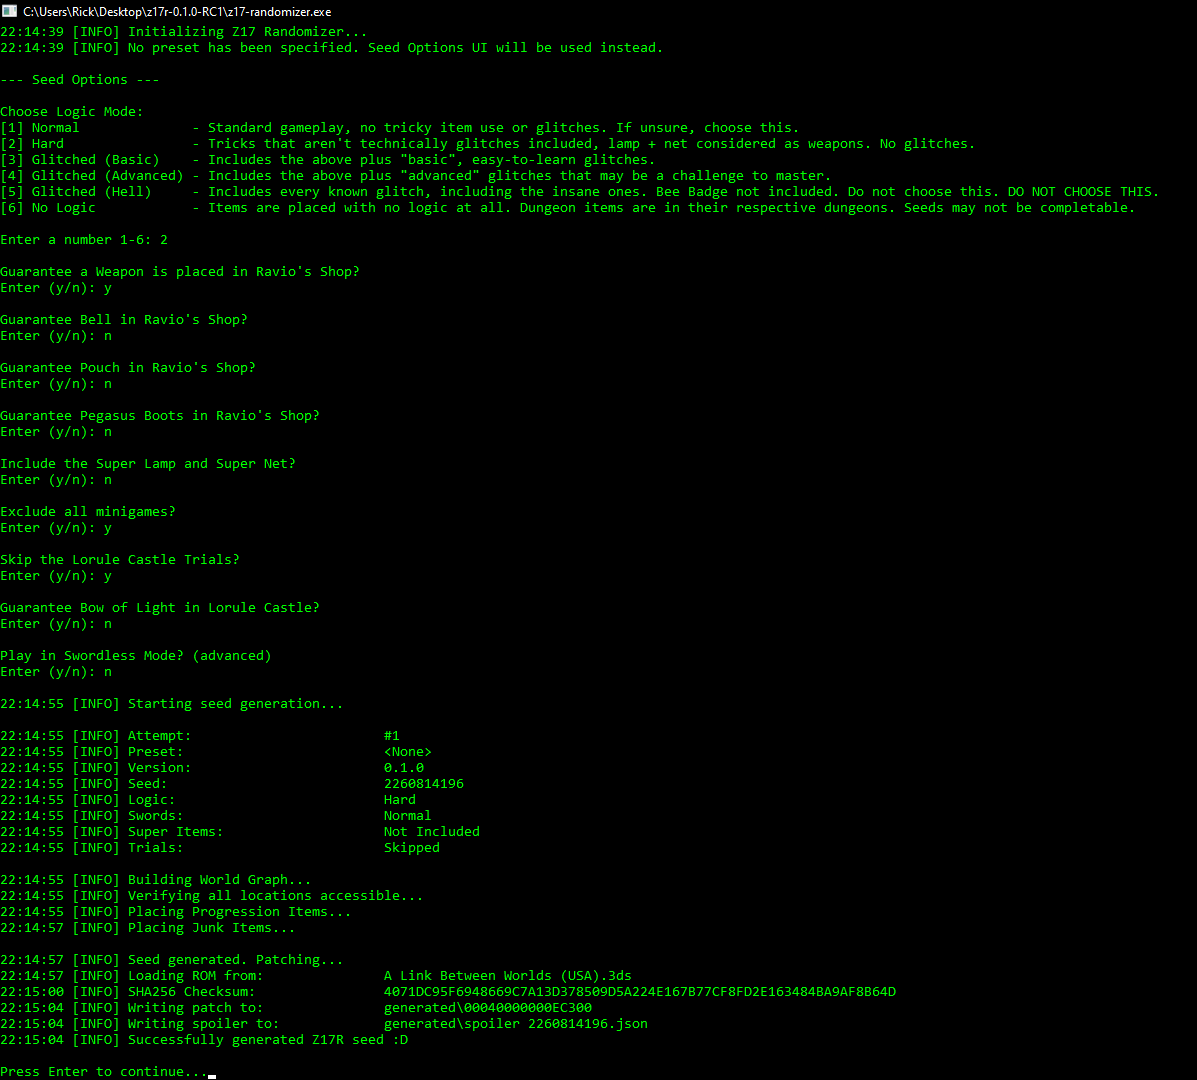
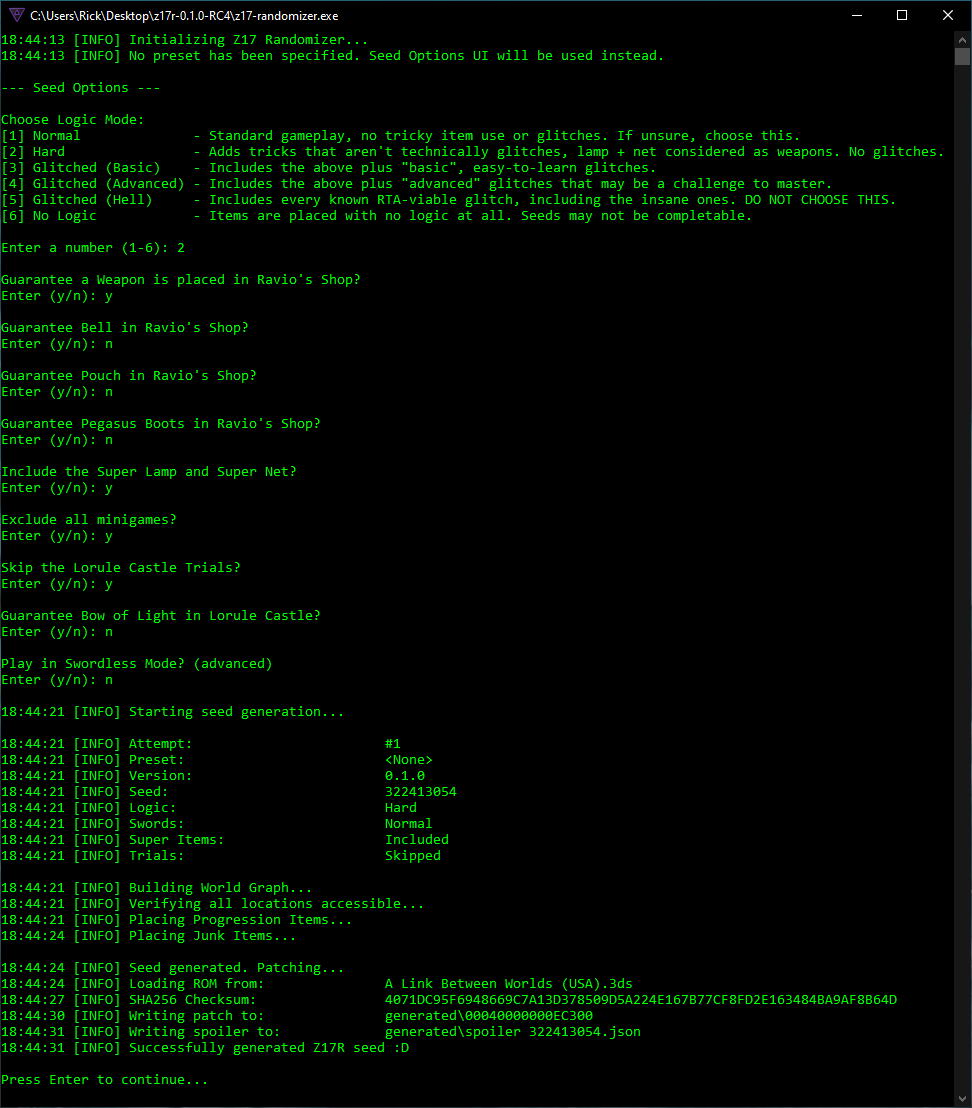
fix reverse DP issue, moved some tricks to advanced, readme updates, metadata updates

diff --git a/randomizer/src/world.rs b/randomizer/src/world.rs
@@ -1440,8 +1440,8 @@ fn lorule() -> HashMap<Location, LocationNode> {
             path(MiseryMireBridge,
                  None,
                  None,
-                 Some(|p| p.has_ice_rod() && p.has_tornado_rod()),
                  None,
+                 Some(|p| p.has_ice_rod() && p.has_tornado_rod()),
                  None,
             ),
             path(MiseryMireLedge,
@@ -1459,8 +1459,8 @@ fn lorule() -> HashMap<Location, LocationNode> {
             path(MiseryMireOoB,
                  None,
                  None,
-                 Some(|p| p.has_fire_rod() || p.has_nice_bombs()),
                  None,
+                 Some(|p| p.has_fire_rod() || p.has_nice_bombs()),
                  Some(|p| (p.has_hookshot() || p.has_boomerang()) && p.has_tornado_rod()), // portal clip
             ),
         ])),
@@ -1472,8 +1472,8 @@ fn lorule() -> HashMap<Location, LocationNode> {
             path(MiseryMireRewardBasket,
                  None,
                  None,
-                 Some(|p| p.has_boots()),
                  None,
+                 Some(|p| p.has_boots()),
                  None),
         ])),
         (SandRodDungeon, location("Misery Mire Treasure Dungeon", vec![
@@ -1773,7 +1773,7 @@ fn lorule() -> HashMap<Location, LocationNode> {
             path_free(LoruleDeathEastLedgeLower),
             path(IceCaveCenter,
                  Some(|p| p.can_merge()),
-                 Some(|p| p.has_tornado_rod()), // jump over merge block
+                 None,
                  None,
                  None,
                  None,
@@ -1951,8 +1951,8 @@ fn eastern_palace() -> HashMap<Location, LocationNode> {
             check(LocationInfo::new(regions::dungeons::eastern::floor2::SUBREGION, "[EP] (2F) Big Chest"),
                   Some(|p| p.has_eastern_keys(2)),
                   None,
-                  Some(|p| p.has_tornado_rod()),
                   None,
+                  Some(|p| p.has_tornado_rod()),
                   None,
             ),
         ], vec![
@@ -1960,8 +1960,8 @@ fn eastern_palace() -> HashMap<Location, LocationNode> {
             path(EasternPalaceBoss,
                  Some(|p| p.has_eastern_big_key() && p.has_eastern_keys(2) && p.can_attack() && p.can_hit_far_switch()),
                  Some(|p| p.has_eastern_big_key() && (p.has_bombs() || p.has_ice_rod())),
-                 Some(|p| p.has_tornado_rod()),
                  None,
+                 Some(|p| p.has_tornado_rod()),
                  None,
             ),
         ])),
@@ -2978,7 +2978,7 @@ fn desert_palace() -> HashMap<Location, LocationNode> {
             ),
         ], vec![
             path_free(DesertPalace2F),
-            path(DesertZaganagaLedge,
+            path(DesertPalaceExit3F,
                  Some(|p| p.has_desert_keys(5) && p.has_desert_big_key()),
                  None,
                  Some(|p| p.has_tornado_rod() && p.has_desert_big_key()),
@@ -2986,8 +2986,18 @@ fn desert_palace() -> HashMap<Location, LocationNode> {
                  None,
             ),
         ])),
+        (DesertPalaceExit3F, location("Desert Palace Exit 3F", vec![], vec![
+            path(DesertPalace3F,
+                 Some(|p| p.has_sand_rod()),
+                 None,
+                 None,
+                 None,
+                 None,
+            ),
+            path_free(DesertZaganagaLedge),
+        ])),
         (DesertZaganagaLedge, location("Desert Zaganaga Ledge", vec![], vec![
-            path_free(DesertPalace3F),
+            path_free(DesertPalaceExit3F),
             portal(ZaganagasArena),
         ])),
         (ZaganagasArena, location("Zaganaga's Arena", vec![], vec![

diff --git a/randomizer/src/progress.rs b/randomizer/src/progress.rs
@@ -141,7 +141,7 @@ impl Progress {
                     || ((self.settings.logic.mode == LogicMode::GlitchBasic ||
                     self.settings.logic.mode == LogicMode::GlitchAdvanced ||
                     self.settings.logic.mode == LogicMode::GlitchHell)
-                    && (self.has_hookshot() || self.has_boomerang() && self.can_escape())) {
+                    && (self.has_hookshot() || (self.has_boomerang() && self.can_escape()))) {
                     maiamai += 1;
                 }
             }

diff --git a/cli/src/main.rs b/cli/src/main.rs
@@ -34,7 +34,7 @@ fn prompt_logic_mode() -> LogicMode
     print!("[6] No Logic            - Items are placed with no logic at all. Seeds may not be completable.\n");
 
     loop {
-        print!("\nEnter a number 1-6: ");
+        print!("\nEnter a number (1-6): ");
 
         stdout().flush().unwrap();
         let mut input = String::new();

diff --git a/randomizer/src/location.rs b/randomizer/src/location.rs
@@ -210,6 +210,7 @@ pub enum Location {
     DesertPalace1F,
     DesertPalace2F,
     DesertPalace3F,
+    DesertPalaceExit3F,
     ZaganagasArena,
     MiseryMireRewardBasket,
 

diff --git a/README.md b/README.md
@@ -33,6 +33,8 @@ A randomizer for The Legend of Zelda: A Link Between Worlds, built off the [orig
     - <u>Glitched (Hell)</u>: Includes every known RTA-viable glitch, including the insane ones. DO NOT CHOOSE THIS.
     - <u>No Logic</u>: Items are placed with no logic at all. Seeds may not be completable.
 
+  - A full breakdown of the new logic modes is located further down this page.
+
 
 - Sanctuary, Rewired
   - The doors to the Sanctuary church are now closed at game start. They will open upon completing the Sanctuary dungeon, specifically when the left-side switch is pulled at the dungeon's end.
@@ -71,6 +73,9 @@ A randomizer for The Legend of Zelda: A Link Between Worlds, built off the [orig
 
 
 - Letter in a Bottle pickup text has been removed
+
+
+- Great Rupee Fairy will now logically guarantee (at least) 3000 Rupees are available between placed Purples, Silvers, and Golds.
 
 
 - The randomizer will no longer generate a `Standard.toml` preset that overwrites itself. Instead, an `Example.toml` preset is provided to demonstrate the correct format, and you may modify or delete it ~~at your own peril.~~
@@ -181,7 +186,9 @@ A randomizer for The Legend of Zelda: A Link Between Worlds, built off the [orig
 
 ## Setup
 
-Download: [Latest Stable Release (v0.1.0)](https://github.com/rickfay/z17-randomizer/releases/download/v0.1.0/z17r-0.1.0.zip)
+- Download: [Latest \[BETA\] Release (v0.1.0)](https://github.com/rickfay/z17-randomizer/releases/download/v0.1.0/z17r-0.1.0.zip)
+
+- Download: [Latest \[STABLE\] Release (v0.0.4)](https://github.com/rickfay/z17-randomizer/releases/download/v0.0.4/z17r-0.0.4.zip)
 
 1. Unzip the download to your directory of choice.
 2. Move your A Link Between Worlds ROM into the same folder. Name it: `A Link Between Worlds (USA).3ds`
@@ -257,72 +264,132 @@ For Citra (emulator):
   - The Hyrule Castle Barrier will be torn down from game start, providing access to its checks and the Inside Hyrule Castle dungeon.
   - You will need the [Net to play Tennis with Yuganon](https://www.twitch.tv/videos/1265170513). Good luck finding it!
 
-## Glitched Logic Breakdown
+## Logic Breakdown
 
-The following tricks may potentially be required in a Glitched Logic seed:
+### Normal Logic
 
-- Lamp, Net, and Pegasus Boots are considered damage sources
-- Rosso Cave with Boomerang or Hookshot (not TRod + Shield)
-- Blacksmith Cave with Fire Rod or Nice Bombs
-- Reach Death Mountain with Power Glove Skip
-- Eastern Ruins Pegs with Boomerang or Hookshot or Tornado Rod (no Sand Rod)
-- Flipperless Message in a Bottle with Fire Rod or Nice Bombs
-- Access HoG with Fake Flippers or Ice Rod + Hookshot
-- Lost Woods Chest with Boomerang or Hookshot and a means of escape (FRod, Bombs, or Bell. No Crow)
-- Reverse Sanctuary (door is open after opening Gravestone, just need damage source to defeat Poes)
-- Flippers Treasure Dungeon tricks. Need either Titan's Mitt or Ice Rod to enter. Then either just Hookshot + Flippers OR simply the Nice Bombs. Nice Ice Rod and Great Spin not considered.
-- Zora's Waterfall Cave with the Crow Boost (FRod not needed)
-- Pegasus Boots Dungeon with just Master Sword, Bombs, or Boomerang (Nice Bow and Nice Ice Rod not considered)
-- Access Turtle Rock with Fake Flippers
-- Misery Mire HP without Sand Rod. With just Bombs (regular works with Vulture boosting) or FRod + Boots
-- Eastern Palace
-  - Left entrance chest with a thrown Pot
-  - 4 Switches Room with thrown Pots
-  - Bombs or Ice Rod to activate switch opening path to Boss Door early
-  - TRod Armos Boost to get to Boss Key or Boss room without the appropriate key
-- House of Gales
-  - 2F Fire Ring Key using HoG Skip Skip to do 2F backwards if key missing (incredibly specific, unlikely)
-  - Skip Skip Skip to reach 3F without keys
-- Tower of Hera
-  - Bomb Rods can be used to climb the tower without any keys
-- Swamp Palace
-  - Early access to 1F SW/SE rooms with Ice Rod to raise water level
-  - Miniboss Skips with Ice Rod/Tornado Rod or Boots
-  - Early Big Chest with Ice Rod or Boots
-  - Big Key Skip with Ice Rod and Tornado Rod
-- Thieves' Hideout
-  - Flipperless Thieves using TRod + a way to hit the switch (IRod or Bombs, no sword beams)
-    - Softlock chest behind wall NOT in logic unless you can also get Bombs or Fire Rod (but really, bring a Scoot Fruit)
-    - Big Key chest accessible, Boots made available
-- Ice Ruins
-  - All dungeon checks accessible without keys if you have Boots. The ones behind B1 locked doors also require Tornado Rod.
-- Desert Palace
-  - Reverse DP means keys can show up anywhere in the dungeon if you have Fire Rod or Nice Bombs
-- Turtle Rock
-  - Big Key Skip using a Bomb Rod
-- Lorule Castle
-  - Lamp Trial doesn't need the Lamp
+This is the standard logic mode and is recommended for new and casual players.
 
-  
-Mergeless Tricks:
-- Behind Blacksmith with Fire Rod or Nice Bombs
-- Death Mountain climb
-- DM Fairy Cave with Fire Rod or Nice Bombs
-- Bouldering Guy with TRod + Boots
-- Access Eastern Ruins with just Power Glove
-- Eastern Ruins Merge Chest with TRod, FRod, or Nice Bombs
-- Lost Woods Alcove with Boomerang or Hookshot and a means of escape (FRod, Bombs, or Bell. No Crow)
-- House of Gales TRod onto moving block in 1F East Room (if key logic allows access)
-- Mergeless Hera with Bombs and Sword to bypass lobby. TRod needed for floors higher than 3F
+- Includes:
+  - Standard gameplay
+  - No glitches
+  - No obscure tricks
 
+### Hard Logic
 
-Fake Flippers requires Pegasus Boots and either Fire Rod or Nice Bombs
+This mode is recommended for players who have played the game before and are familiar with its mechanics. This is still a glitch-free mode, but the logic may require players to perform actions or use items in obscure, non-obvious ways to reach checks.
 
+- Includes:
+  - Using the Lamp or Net as weapons (they deal 1/2 the damage of the Forgotten Sword)
+  - Completing the Boots Dungeon with either Bombs, Boomerang, or Sword Beams
+  - Entering Eastern Ruins with Power Glove
+  - Entering the Vacant House rear with the Bomb Flower
+  - Hyrule Hotfoot with Merge + Bell
+  - Jumping into the Kakariko Well with a Cucco
+  - Reaching the Misery Mire Ledge with Stamina Scroll + Bombs
+  - Southern Ruins Treasure Dungeon
+    - Flippers, Hookshot, and either Bombs or Master Sword to hit the Boomerang switch
+  - Eastern Palace:
+    - Using Sword Beams or thrown Pots to activate switches
+    - Skipping a Small Key with either bombs or the Ice Rod
+  - House of Gales:
+    - Using the Tornado Rod to jump on moving blocks to reach 2F without merge
+    - Deathwarping from NE room on 1F without merge
+  - Swamp Palace:
+    - Precise Bow Shot to bypass River Room without merge
+    - Access 1F Big Chest without extinguishing flames
+  - Desert Palace:
+    - Run past Armos on 3F
+  - Turtle Rock
+    - Hit the B1 crystal Switch with a thrown skull
+  - Lorule Castle
+    - Play Tennis with Yuganon using the Net
 
-Some notes about Nice Bombs:
-  - Glitched logic *DOES* guarantee at least 10 Maiamai will be available for any checks requiring Nice Bombs
-  - The logic guarantees Nice Bombs are obtainable for any Bomb Rods or Lemon Boosts
-  - If you spend your Maiamai on anything other than Nice Bombs, you may potentially doom your seed. Regular Bomb boosts may save you, but if progression is on Southern Ruins Treasure Dungeon with Nice Bombs there's no salvaging it. YOU HAVE BEEN WARNED.
+### Glitched (Basic) Logic
+
+This mode is intended for players who want to use some of the game's many glitches, but not the hard ones.
+
+<u>Note</u>: You are expected to spend your first 10 Maiamai on Nice Bombs for all Glitched Logic seeds due to the many glitches they enable. Failure to do so could make your seed much harder or potentially even impossible to complete.
+
+- Includes:
+  - Armos Boost to reach:
+    - Eastern Ruins merge chest
+  - Bird Boost to reach Waterfall Cave
+  - Fire Rod or Lemon Boosts to get onto small ledges
+  - Enemy Clips
+  - Reaching the Misery Mire Ledge with Nice Bombs or Fire Rod with either Boots or regular Bombs
+  - Southern Ruins Treasure Dungeon Flipperless w/ Nice Bombs
+  - House of Gales:
+    - Skip Skip to do 2F in reverse
+    - Skip Skip Skip to reach 3F
+  - Swamp Palace:
+    - Miniboss Skip with Pegasus Boots
+  - Thieves' Hideout:
+    - Jailbreak to activate switches and reach B2 without merge
+  - Desert Palace
+    - Defeat Zaganaga with just Bow or just Sword Beams
+
+### Glitched (Advanced) Logic
+
+This mode is for experienced players who are comfortable with this game's harder, more involved glitches. 
+
+<u>Note</u>: You are expected to spend your first 10 Maiamai on Nice Bombs for all Glitched Logic seeds due to the many glitches they enable. Failure to do so could make your seed much harder or potentially even impossible to complete.
+
+- Includes:
+  - Entering Southern Ruins Treasure Dungeon with just Ice Rod
+  - Desert Palace Skip
+    - Skip Desert with Ice Rod + Tornado Rod
+    - OoB with Fire Rod or Nice Bombs
+    - Zaganaga Skip with Pegasus Boots
+    - Reverse Desert Palace
+  - Fake Flipper Tricks
+  - Flipperless House of Gales with Hookshot/Ice Rod
+  - Enemy clips to reach Lost Woods checks without escape items (must use Crows instead)
+  - Reaching the Misery Mire Ledge with Regular Bombs + Vulture Boost
+  - Shield Rod Clips
+  - Tornado Rod Enemy Clip to reach Eastern Ruins Peg Circle
+  - Eastern Palace
+    - Armos Boost to skip the Boss Key and a Small Key
+  - Tower of Hera
+    - Bombrods
+    - Mergeless strategy
+  - Swamp Palace
+    - Ice Rod Clipping to skip merge requirements and raise/lower water levels
+    - Ice Rod + Tornado Rod to skip dungeon entirely
+  - Thieves' Hideout
+    - Flipperless Thieves strategies with Tornado Rod + either Bombs or Ice Rod
+      - Note: B1 Behind the Wall chest and the B1 Big Chest are reachable but excluded from this, due to the repetitive nature of the trick
+    - Reach miniboss and/or B2 jail cell without merge
+  - Ice Ruins
+    - Get Out of Bounds with Pegasus Boots to:
+      - Skip entire dungeon
+      - Scroll Skip
+      - Small Key skip with Tornado Rod
+    - Desert Palace
+      - Reverse Desert Palace with Fire Rod or Nice Bombs
+      - Armos Boost to skip West 2F
+
+### Glitched (Hell) Logic
+
+This mode logically includes every known RTA-viable glitch, including those that are wildly inconsistent and inconsiderate of a player's time. It is not recommended for anyone, other than those seeking a challenge.
+
+<u>Note</u>: You are expected to spend your first 10 Maiamai on Nice Bombs for all Glitched Logic seeds due to the many glitches they enable. Failure to do so could make your seed potentially impossible to complete.
+
+- Includes:
+  - Bee Boost Tricks
+  - Defeating Yuga 1 with just Sword Beams or just Ice Rod
+  - Fake Flippers via Bee Boosting
+  - Catching a natural Golden Bee before Lorule with Bottle + Net
+  - Regular Bomb Boost to reach:
+    - Eastern Ruins merge chest
+  - Sand Rod Enemy Clip to reach:
+    - Eastern Ruins Peg Circle
+    - Rosso Cave
+  - Desert Palace Skip via Portal Clipping with Hookshot/Boomerang + Tornado Rod
+
+### No Logic
+
+It's all in the name: no logic is used to place items at all. Dungeon items are in their respective dungeons due to technical limitations, but otherwise any item could show up anywhere. Seeds are not guaranteed to be completable.
 
 ## Known Issues
 
